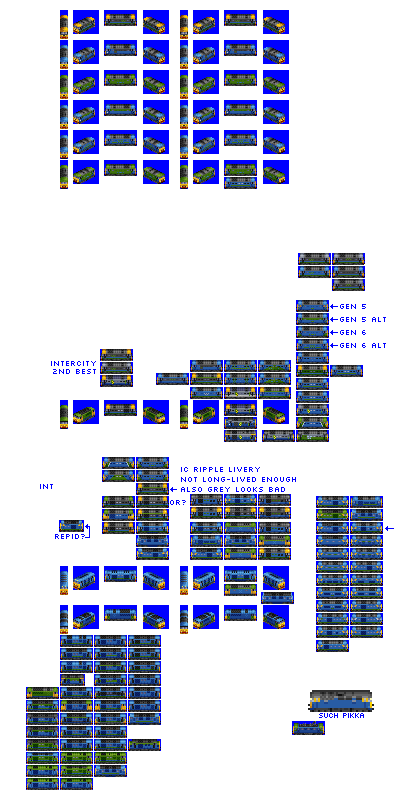
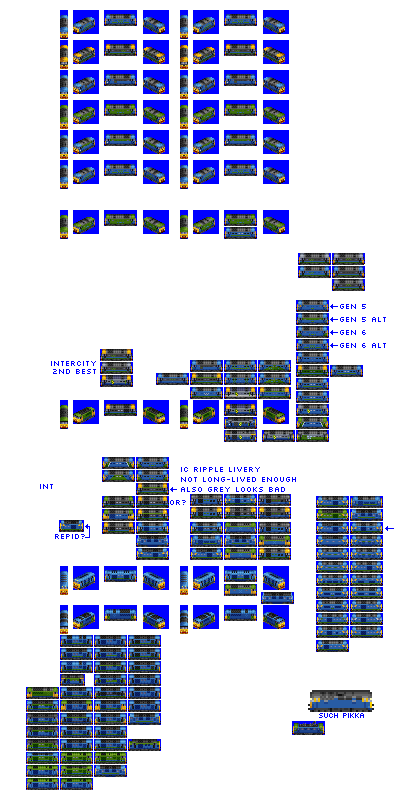
Change: adjust order of Resilient liveries

diff --git a/src/vehicles/resilient.py b/src/vehicles/resilient.py
@@ -8,7 +8,7 @@ def main(roster_id):
         base_numeric_id=13980,
         name="Resilient",
         role="heavy_express",
-        role_child_branch_num=-2,
+        role_child_branch_num=1,
         power_by_power_source={
             "DIESEL": 2800,  # significant jump from previous gen
         },
@@ -17,7 +17,7 @@ def main(roster_id):
         intro_year_offset=4,  # let's not have everything turn up in 1990
         fixed_run_cost_points=65,  # give a bonus so this can be a genuine mixed-traffic engine
         # add RfD Euro style triple grey?
-        additional_liveries=["RES", "FREIGHTLINER_GBRF", "DUTCH", "SWOOSH"],
+        additional_liveries=["INTERCITY_RASPBERRY_RIPPLE", "RES", "FREIGHTLINER_GBRF", "DUTCH"],
         default_livery_extra_docs_examples=[
             ("COLOUR_BLUE", "COLOUR_WHITE"),
         ],
